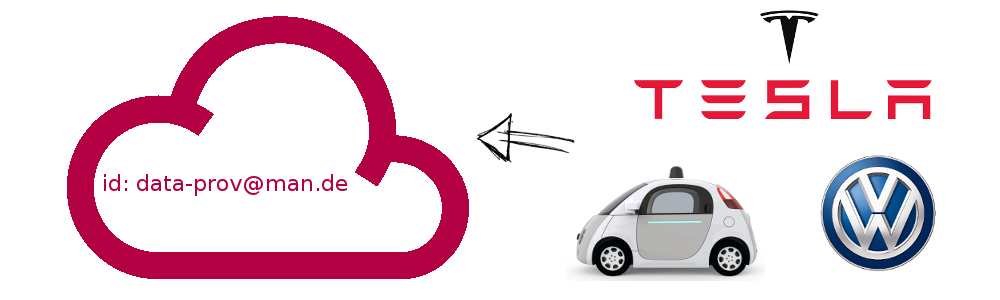
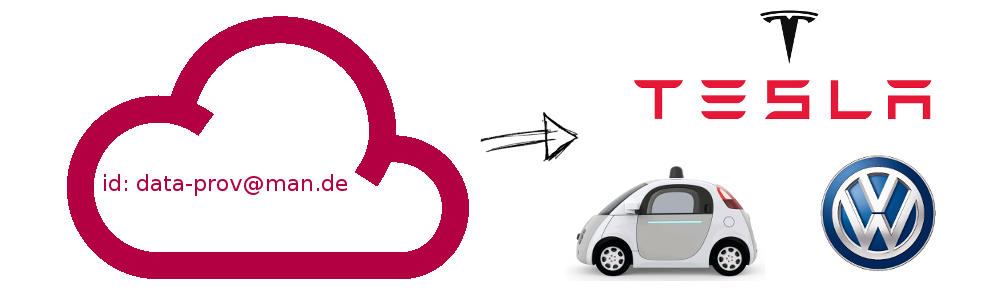
modified the images

Changed region(s): [[0.465, 0.39, 0.589, 0.54]]

diff --git a/app/controllers/HomeController.java b/app/controllers/HomeController.java
@@ -41,7 +41,7 @@ public class HomeController extends Controller {
             title = "Personal Driver Profile";
             description = "The personal data of the driver.";
         } else if (type.equals("employer")) {
-            image = "images/cloud_3_labeled.png";
+            image = "images/cloud_3_labeled_partners.png";
             title = "Truck Owner";
             description = "Delivery history tracked by the logistics company.";
         } else {
